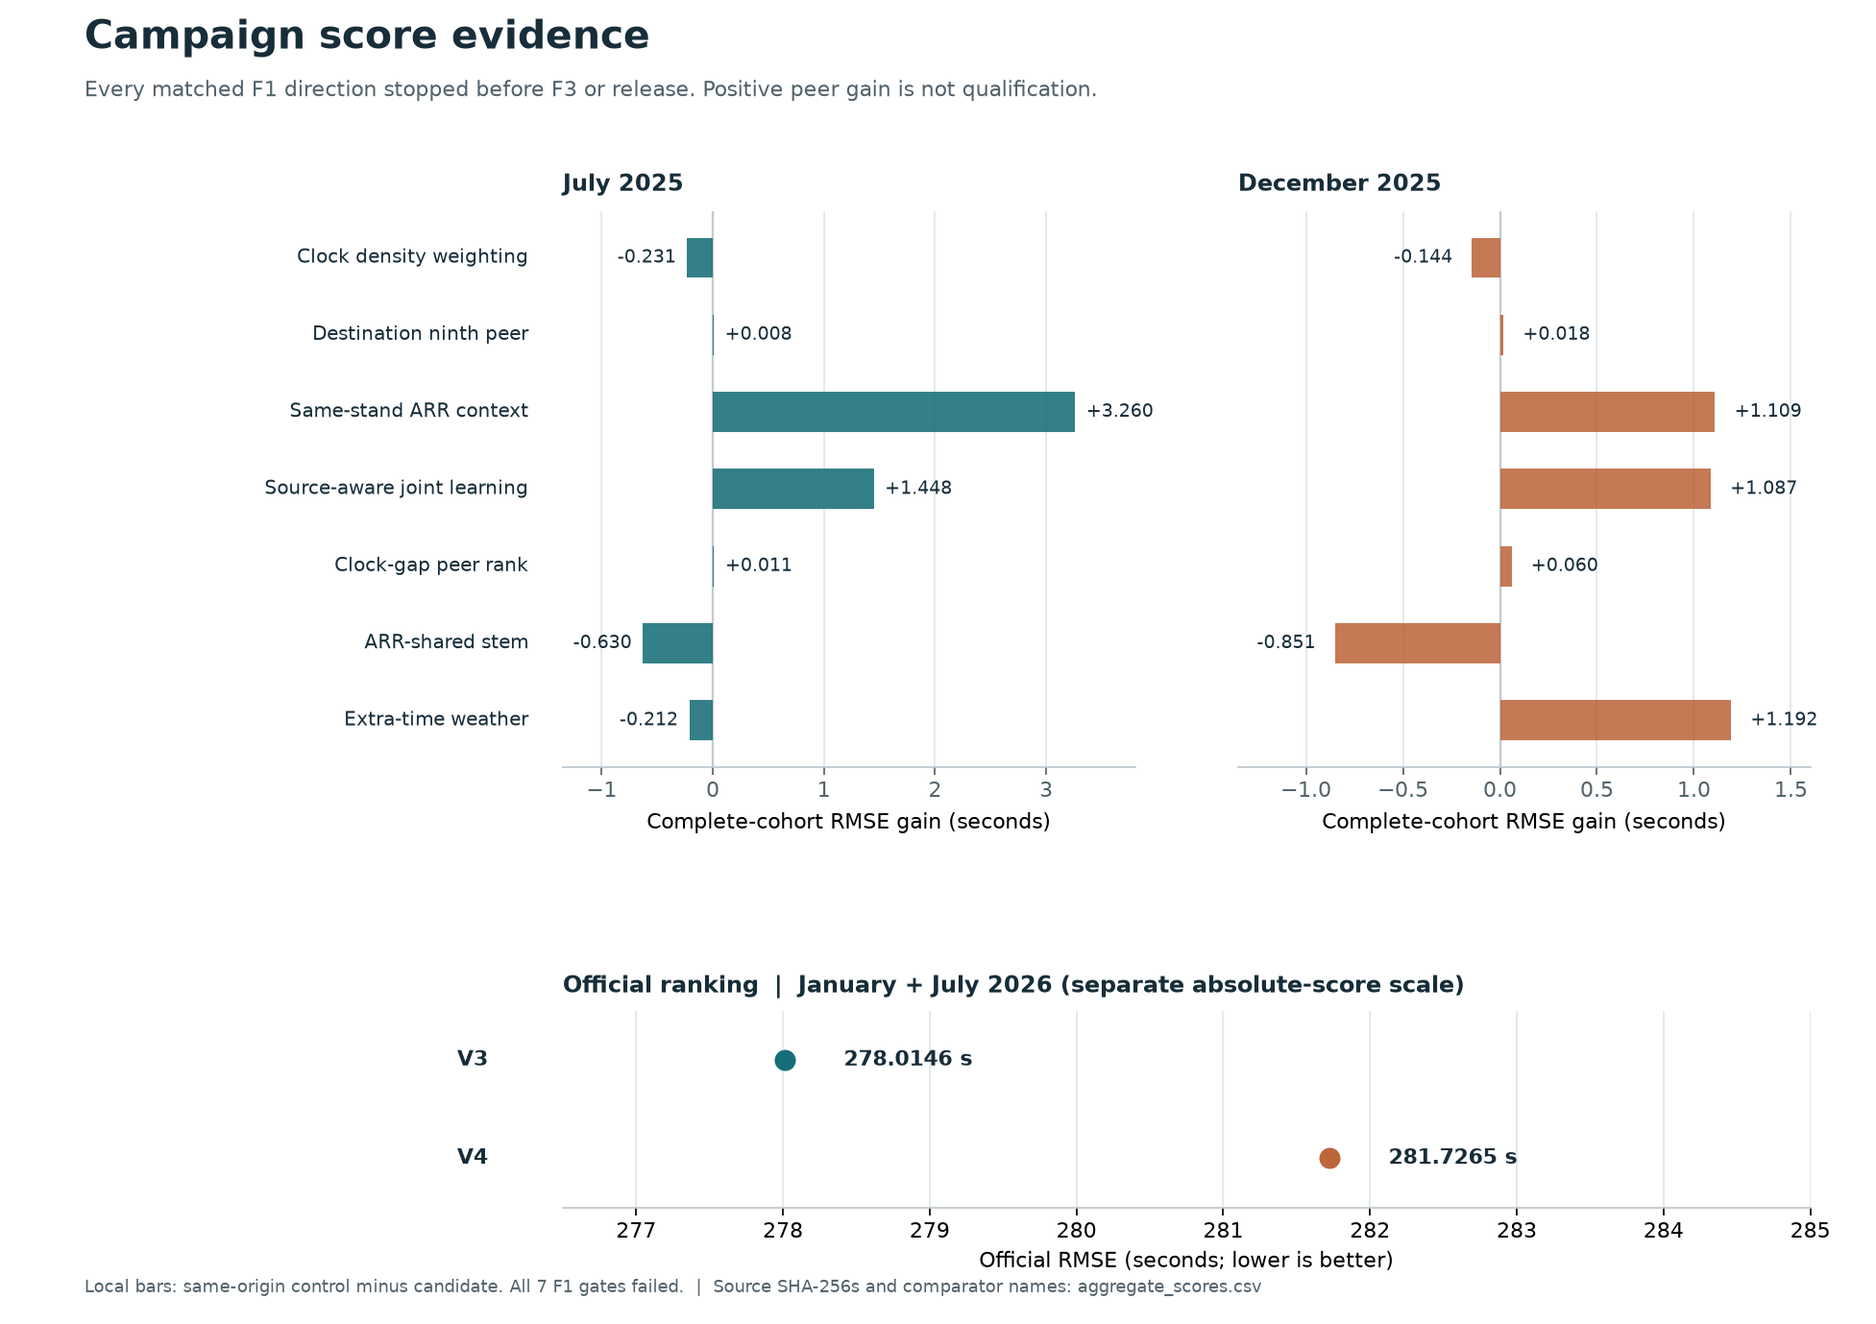
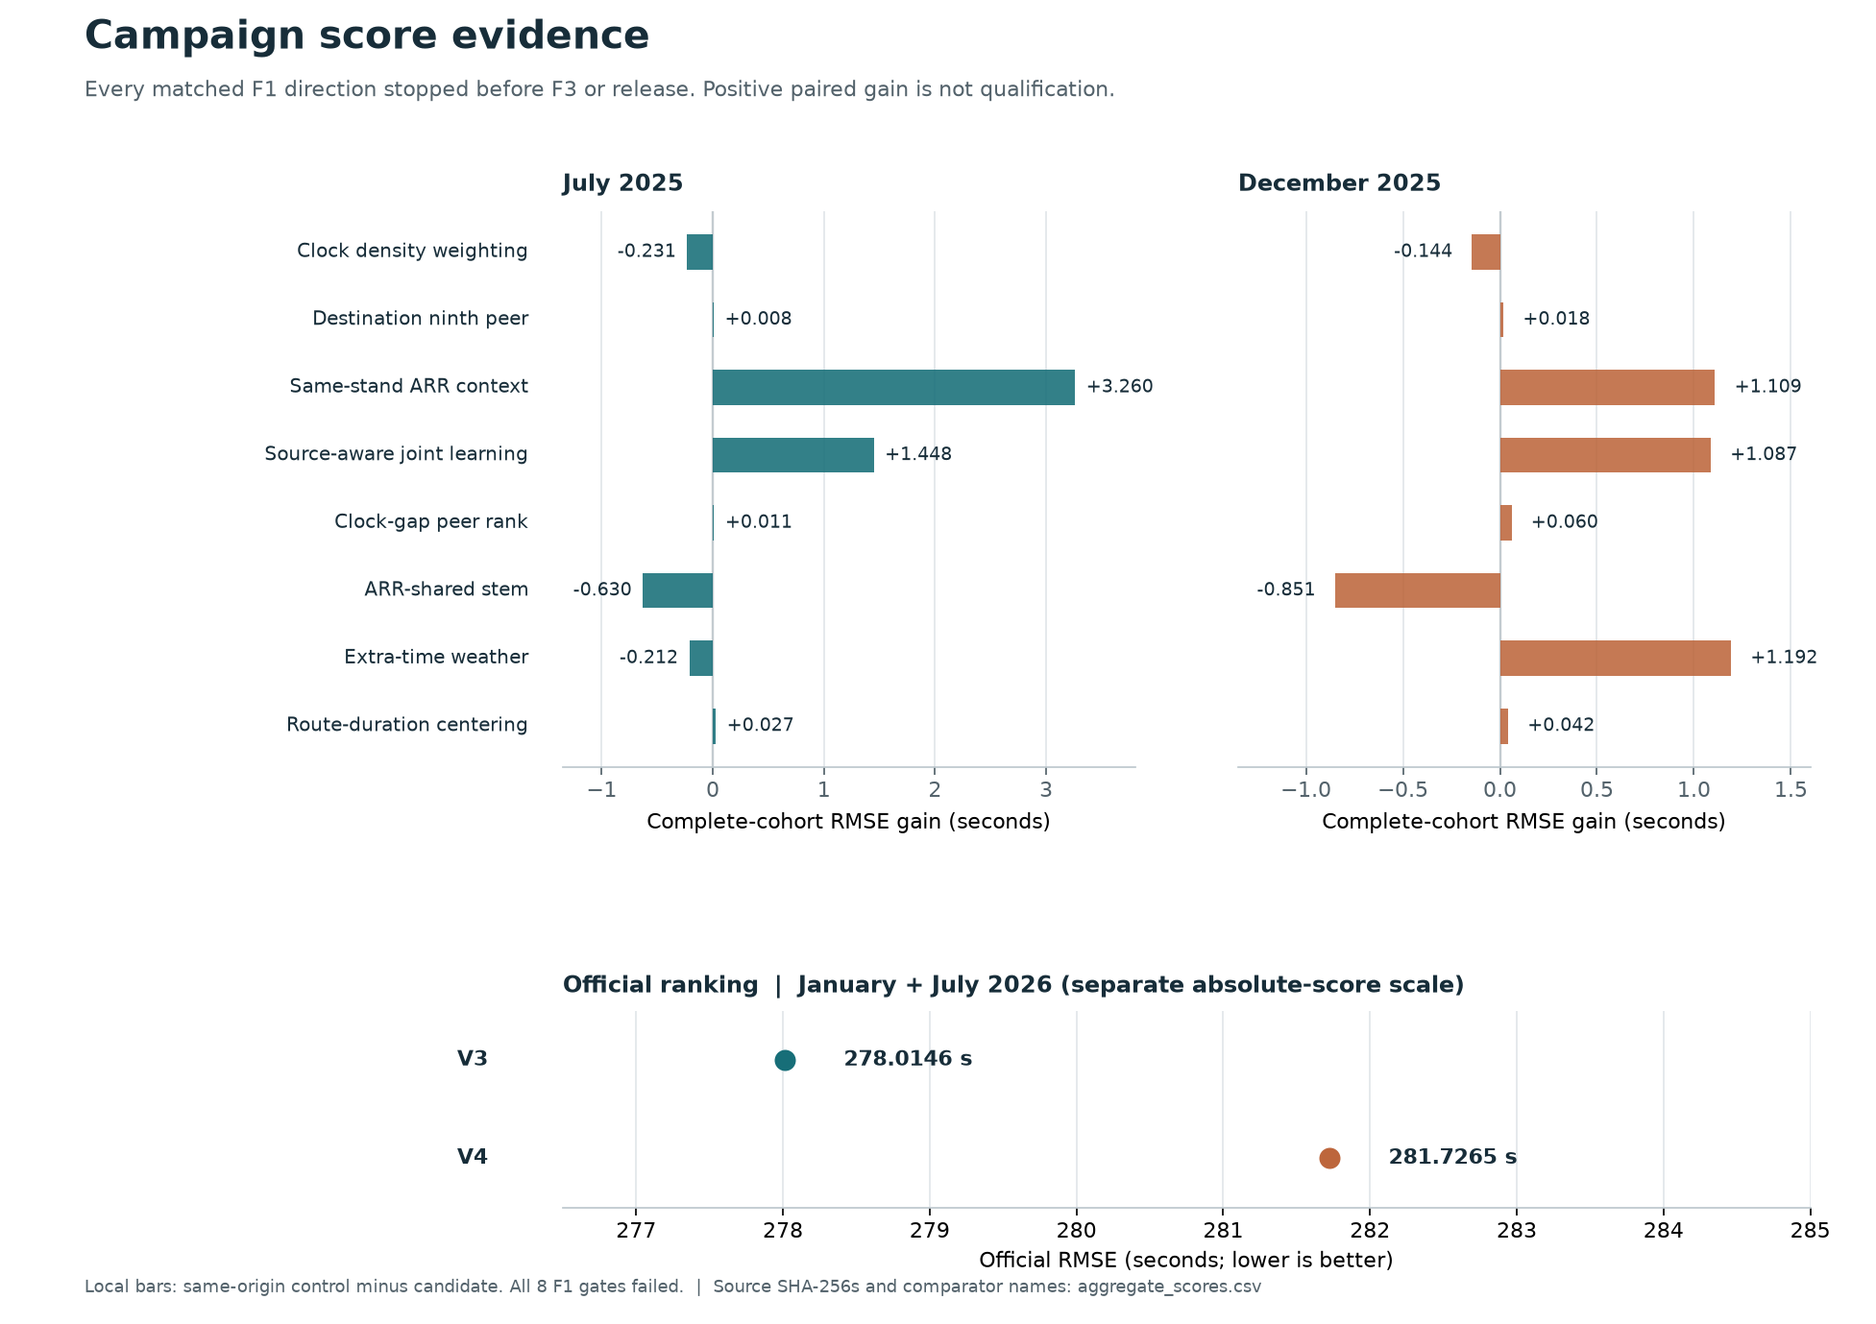
docs: record route-duration F1 stop and campaign evidence

diff --git a/docs/campaign-evidence/build_chart.py b/docs/campaign-evidence/build_chart.py
@@ -76,6 +76,14 @@ SOURCES = [
[1 lines of base64/hex data omitted]
         "weather",
     ),
+    (
+        "Route-duration centering", "byte-identical raw/clean",
+        "private_runs/lead235_20260925/route_duration_f1_score_v2/F1/result.json",
[1 lines of base64/hex data omitted]
+        "review_work/lead235_20260925/route_duration_f1_postscore_audit_v1/POSTSCORE_AUDIT.json",
[1 lines of base64/hex data omitted]
+        "route_duration",
+    ),
 ]
 
 OFFICIAL = [
@@ -125,6 +133,8 @@ def complete_comparison(data: dict, kind: str, month: str) -> tuple[float, float
         part = data["months"][month]["comparisons"]["detached"]
     elif kind == "weather":
         part = data["months"][month]["comparisons"]["routine"]
+    elif kind == "route_duration":
+        part = data["months"][month]["comparisons"]["raw"]
     else:
         raise ValueError(f"Unknown source kind: {kind}")
     return part["comparator_rmse"], part["candidate_rmse"], part["gain_sec"], part["rows"]
@@ -141,9 +151,17 @@ def aggregate_rows() -> list[dict]:
             review = json.loads(audited)
             audit_result_hash = review.get("score_sha256", review.get("f1_result_sha256", review.get("score_result_sha256", review.get("result_sha256"))))
             assert audit_result_hash == src_hash, (kind, "independent audit did not bind score")
-            gate = data["f1_gate"] if kind in ("source_aware", "rank", "arr_aux", "weather") else data["gate"]
+            gate = data["f1_gate"] if kind in ("source_aware", "rank", "arr_aux", "weather", "route_duration") else data["gate"]
             assert gate["passed"] is False, (kind, "gate changed")
             assert review.get("f1_gate_passed", review.get("gate_passed", False)) is False
+            if kind == "route_duration":
+                assert review["reported_gate_reproduced"] and review["maximum_metric_absolute_delta"] == 0
+                assert review["verified_panel_count"] == 9
+                for month, part in data["months"].items():
+                    assert part["arms"]["raw"] == part["arms"]["clean"], (kind, month, "raw/clean scores differ")
+                    assert part["comparisons"]["raw"] == part["comparisons"]["clean"], (kind, month, "raw/clean comparisons differ")
+                    hashes = review["months"][month]["panels_sha256"]
+                    assert hashes["raw"] == hashes["clean"], (kind, month, "raw/clean panels differ")
         for month in ROWS:
             control, candidate, gain, count = complete_comparison(data, kind, month)
             assert count == ROWS[month], (kind, month, count)
@@ -172,7 +190,7 @@ def draw(rows: list[dict]) -> None:
                              width_ratios=[1, 1], left=.30, right=.965, top=.84,
                              bottom=.088, hspace=.65, wspace=.18)
     fig.text(.045, .963, "Campaign score evidence", fontsize=19, weight="bold", color="#172d39")
-    fig.text(.045, .927, "Every matched F1 direction stopped before F3 or release. Positive peer gain is not qualification.",
+    fig.text(.045, .927, "Every matched F1 direction stopped before F3 or release. Positive paired gain is not qualification.",
              fontsize=10.1, color="#53626b")
     names = [source[0] for source in SOURCES]
     panel = [row for row in rows if row["panel"] == "matched_local_F1"]
@@ -216,7 +234,7 @@ def draw(rows: list[dict]) -> None:
     ax.grid(axis="x", color="#dde3e7", linewidth=.7)
     ax.spines["left"].set_visible(False)
     ax.spines["bottom"].set_color("#bdc8ce")
-    fig.text(.045, .024, "Local bars: same-origin control minus candidate. All 7 F1 gates failed."
+    fig.text(.045, .024, f"Local bars: same-origin control minus candidate. All {len(SOURCES)} F1 gates failed."
              "  |  Source SHA-256s and comparator names: aggregate_scores.csv", fontsize=8.3, color="#53626b")
     fig.savefig(OUT / "campaign_scores.png", dpi=155)
     plt.close(fig)

diff --git a/docs/SUBMISSION_CAMPAIGN_2026-09-23.md b/docs/SUBMISSION_CAMPAIGN_2026-09-23.md
@@ -23,7 +23,7 @@ timezone. Zero uploads is the correct result if no candidate clears the gates.
 | Day | Work to attempt, subject to the preceding gate | Release decision |
 | --- | --- | --- |
 | Thu Sep 24 | Close the failed ARR-supervision F1 arm and complete the paired weather input, twelve matched refits, independent prediction review and one-time F1 score. Preserve the v1 native crash and the separate v2 CPU/v3 GPU recovery receipts. | Extra-time weather lost 0.212 seconds to its matched routine control in complete July; stop before F3, ranking fit or upload. |
-| Fri Sep 25 | The route/type filed-duration post-purge input audit, exact-byte local F1 probe reuse decision, generated-target four-job canary and independent native/panel/resource replay are complete. The separately versioned v2 supervised runner passed generated-only and independent read-only review under the prospective >=24 GiB local-F1 resource policy; issue a one-use fit admission only after its independent prefit review and a fresh resource/lock check. The scheduled-inbound matched F1 arm remains an alternative: its v4 target-blind postfit canary needs >=26 GiB, followed by independent review and its own fit admission. Keep ranking-month ARR-label training held. | The passed canary and resource decision grant no real label access, supervised fit, evaluation scoring, F3, ranking inference or upload. Those require separate frozen admissions and F1/release gates. Probe-reused filed-duration matrices are local F1 inputs only; official release needs independently qualified production artifacts. Official release depending on future ARR membership remains held for organizer clarification. |
+| Fri Sep 25 | The filed route/type duration arm completed four serial supervised jobs, independent native and panel review, May calibration, full June/July/December composition and one-time matched F1 score with independent arithmetic replay. The scheduled-inbound matched F1 arm is the next distinct local test: its v4 target-blind postfit canary needs >=26 GiB, followed by independent review and its own fit admission. Keep ranking-month ARR-label training held. | Route-duration centered gained only 0.026834 seconds in complete July versus byte-identical raw/clean controls, with a paired-day interval crossing zero; stop before F3, ranking inference or upload. Future-ARR-membership release remains held for organizer clarification. |
 | Sat Sep 26 | Only for an admitted direction, freeze matched capacity and chronological cohorts, fit one heavy job at a time, audit complete predictions before scoring and test July robustness plus December transport. | Stop a failed F1 arm without tuning on exposed rows; F3 and full-season qualification require their own receipts. |
 | Sun Sep 27 | Finish any eligible, qualified F3/full-year dependency, independently verify release, check organizer quota and credentials, and upload only a frozen complete candidate. Publish the final experiment and score report. | Close the goal and disable the schedule after the report; if morning work remains, continue later that day. |
 
@@ -64,9 +64,9 @@ complete matched seasonal gate. Each official submission, if any, is a
 one-use transfer check of a distinct qualifying model. Do not infer hidden
 subgroup errors or select a follow-up weight from its score.
 
-The current [aggregate score chart](campaign-evidence/REPORT.md)
-separates seven audited F1 July/December matched gains from the two official
-2026 scores. All seven local directions stopped at F1. The chart's source
+The [aggregate score chart](campaign-evidence/REPORT.md)
+separates audited F1 July/December matched gains from the two official
+2026 scores. All scored local directions stopped at F1. The chart's source
 receipt hashes and arithmetic are checked by its reproducible script; it
 cannot turn earlier-origin F1 gains into a comparable historical V3 score.
 
@@ -116,6 +116,7 @@ of a frozen candidate, not select weights, rows, rules, or the next variant.
 | ARR auxiliary PLE387 F1, September 24 | July complete candidate 333.850 vs detached 333.221 and clean 334.130; December 233.736 vs detached 232.886 | Not submitted | Stop before F3; July trails matched control, July day interval crosses zero versus clean, and December trails control |
 | NM flight-rule transition input, September 24 | Input-only `Y/Z` shares 0.055-0.095% in Jan/Jul 2025/2026; no Rome day has two qualifying rows | Not submitted | Four-cell support gate failed before fit or score |
 | Unfiltered IEM extra-time weather versus matched routine, September 24 | Twelve matched F1 experts and 539,532 complete June/July/December rows. July RMSE: extra 333.7258, routine 333.5139, clean 334.1296. June extra/routine 318.8461/318.6100; December 233.2101/234.4017. | Not submitted | Independent arithmetic audit reproduced the one-time result. July extra lost 0.2119 seconds to routine and failed all four matched robustness checks. Stop before F3/ranking/upload; historical first-publication and source-license eligibility also remain unresolved. |
+| Filed route/type duration centering F1, September 25 | On complete June/July/December 2025 rows, centered RMSE 318.766899/334.102752/234.701302 versus raw and clean 318.758152/334.129587/234.743663. Raw and clean panel bytes match in all three months. July gain +0.026834 sec, paired-day CI [-0.011951, 0.066614]. | Not submitted | One-time F1 gate failed; independent nine-panel postscore replay has zero arithmetic delta. No F3, ranking fit or upload. |
 
 V4 already used at least one September 23 submission slot. The prior V4 bucket
 preflight counted zero same-UTC-day objects, but the official reset boundary is
@@ -152,9 +153,10 @@ filed M1 duration already in union387 -> target-blind route/type centering
        -> v4 policy static review passed; await >=26 GiB + one-use admission
        -> either v4 build/postbuild audit OR exact-byte probe reuse decision
        -> generated-label full-resident four-job canary + independent audit
-       -> separate supervised fit admission
-       -> serial F1 fit and complete-prediction/May/prescore reviews
-       -> only if F1 passes: F3, full-season and release gates
+       -> separate supervised fit admission -> four serial real F1 jobs
+       -> May calibration + independent review -> six complete prediction panels
+       -> independent prescore -> one-time score + independent postscore replay
+       -> July +0.026834 sec, CI crosses zero: STOP; no F3/ranking/upload
 ```
 
 Independent feature, source, review and score-contract tasks may use subagents
@@ -690,9 +692,10 @@ and 2,486 watchdog samples. The independent full-panel native/proxy replay
 passed with zero maximum prediction delta and wrote
 `../../review_work/lead235_20260925/route_duration_fit_resource_canary_review_v1/POSTFIT_AUDIT.json`
[1 lines of base64/hex data omitted]
-This is a resource and integrity result, not an RMSE or fit admission. The
-supervised runners have no `FIT_ADMISSION.json` or real-label fit. The original
-v1 runner retains its >=28 GiB launch floor.
+This was a resource and integrity result, not an RMSE or fit admission. At
+that checkpoint neither runner had a real-label fit; the later admitted v2
+local-F1 run is recorded below. The original v1 runner retains its >=28 GiB
+launch floor.
 
 An independent [resource decision](../../review_work/lead235_20260925/route_duration_fit_resource_policy_v2/ACCEPTANCE.json)
 has since accepted a **prospective >=24 GiB launch floor for a separate v2
@@ -702,8 +705,31 @@ The acceptance retains the <10 GiB sampled process cap, >=8 GiB host/disk
 reserves, 0.5-second watchdog, exclusive jobs and one-use failure behavior.
 It is not a supervised fit admission or proof that real stop-label allocation
 fits the same peak. The separate v2 runner passed 12 generated tests and two
-independent read-only code/science reviews; it still needs an independent
-prefit admission review, exact-hash one-use ticket and fresh launch check.
+independent read-only code/science reviews. The subsequent one-use supervised
+fit admission, four jobs and independent postfit replay have now completed.
+
+The [route-duration F1 composition](../../review_work/lead235_20260925/route_duration_f1_composition_v2/outputs/F1/manifest.json)
+froze six complete unscored panels on June/July/December 2025 rows; manifest
[1 lines of base64/hex data omitted]
+Independent May calibration reviewed 183,518 ordinary rows, and the target-free
+[prescore review](../../review_work/lead235_20260925/route_duration_f1_prescore_v2/PRESCORE_REVIEW.json)
+replayed all nine candidate/control panels exactly (SHA-256
[1 lines of base64/hex data omitted]
+The one-time [F1 score](../../private_runs/lead235_20260925/route_duration_f1_score_v2/F1/result.json)
[1 lines of base64/hex data omitted]
+found only +0.026834 seconds in July against both raw and clean, which are
+byte-identical in all three months. June was -0.008747 and December +0.042361
+seconds. July's paired-day 95% interval [-0.011951, 0.066614] crosses zero;
+its worst one-day and top-ten-benefit removals retain only +0.016836 and
++0.008601 seconds. The independent [postscore audit](../../review_work/lead235_20260925/route_duration_f1_postscore_audit_v1/POSTSCORE_AUDIT.json)
[1 lines of base64/hex data omitted]
+reproduced all nine panel metrics and the failed gate with zero maximum delta.
+Close this exact direction at F1. Do not retune a weight or route switch from
+exposed rows; do not pursue its v4 production build, F3, ranking fit or upload.
+The next distinct local candidate is scheduled-inbound versus same-peer
+landed-inbound density, subject to its >=26 GiB canary and separate admission.
+Official release of a feature using future ARR peer membership needs a dated
+organizer ruling even if its local test eventually passes.
 
 ## Candidate qualification
 

diff --git a/docs/campaign-evidence/REPORT.md b/docs/campaign-evidence/REPORT.md
@@ -1,13 +1,13 @@
-# Campaign score evidence (frozen September 24 snapshot)
+# Campaign score evidence (through September 25)
 
 ![Matched F1 gains and separate official ranking scores](campaign_scores.png)
 
 The local bars show **control RMSE minus candidate RMSE** on the *same complete 2025 F1 cohort*. Positive values mean the candidate won that specific paired comparison. Each row has its own same-origin comparator; the bar heights are **not** an absolute model-quality ranking. Every plotted local arm failed its predeclared F1 advancement gate and stopped before F3, full-year fit, or upload.
 
-The largest paired gain is same-stand versus airport-wide ARR context (+3.260 seconds in July), but it also had to beat the unchanged base, pass the top-ten-row removal, and survive its June/December checks. It failed the frozen F1 gate; July's gain over base was +0.588 seconds, its paired-day MSE interval crossed zero, and its top-ten-row removal reversed the gain. Source-aware learning improved +1.448 seconds against its equal-capacity rich-only comparator in July but *lost* 4.315 seconds against the unchanged clean base. Extra-time weather gained +1.192 seconds in December while losing 0.212 seconds against routine-only weather in July. None supplies a five-second robust, transported complete-cohort gain.
+The largest paired gain is same-stand versus airport-wide ARR context (+3.260 seconds in July), but it also had to beat the unchanged base, pass the top-ten-row removal, and survive its June/December checks. It failed the frozen F1 gate; July's gain over base was +0.588 seconds, its paired-day MSE interval crossed zero, and its top-ten-row removal reversed the gain. Source-aware learning improved +1.448 seconds against its equal-capacity rich-only comparator in July but *lost* 4.315 seconds against the unchanged clean base. Extra-time weather gained +1.192 seconds in December while losing 0.212 seconds against routine-only weather in July. Route-duration centering gained +0.026834 seconds against its byte-identical raw/clean comparator in July and +0.042361 in December, with a June regression of 0.008747 seconds; July's paired-day 95% interval crosses zero (-0.011951 to +0.066614 seconds). Its independent postscore audit reproduced the failed F1 gate with zero metric delta. None supplies a five-second robust, transported complete-cohort gain.
 
 The lower panel is deliberately on a **different, absolute RMSE scale**: official 2026 V3 = **278.0146** and V4 = **281.7265**, both with `Succeeded` receipts. V3 remains the best of these verified submissions. Neither official point is joined to the local 2025 bars, and historical V3 local 268.662991 is omitted: its July/November fit and evaluation history differs from these earlier-origin F1 arms. A lower local F1 absolute score is not an estimate of official 2026 improvement.
 
-[`aggregate_scores.csv`](aggregate_scores.csv) has fourteen local month rows plus two official receipt rows. Each row includes the exact score receipt and SHA-256; local rows also name their independent audit or postscore report and its SHA-256. The [`build_chart.py`](build_chart.py) script reads **only these aggregate receipts**, verifies pinned hashes and score-to-audit binding, checks original full-cohort row counts and `control - candidate` arithmetic, and regenerates the CSV and PNG. From the PRC workspace root, run `& .\.review-venv\Scripts\python.exe knowledgeable-helicopter-screening\docs\campaign-evidence\build_chart.py`. Rebuilding requires the private local aggregate receipts named in the CSV; the checked chart and CSV travel with this branch.
+[`aggregate_scores.csv`](aggregate_scores.csv) has sixteen local month rows plus two official receipt rows. Each row includes the exact score receipt and SHA-256; local rows also name their independent audit or postscore report and its SHA-256. The [`build_chart.py`](build_chart.py) script reads **only these aggregate receipts**, verifies pinned hashes and score-to-audit binding, checks original full-cohort row counts and `control - candidate` arithmetic, and regenerates the CSV and PNG. The route-duration audit additionally verifies raw/clean equality on all three 2025 F1 months. From the PRC workspace root, run `& .\.review-venv\Scripts\python.exe knowledgeable-helicopter-screening\docs\campaign-evidence\build_chart.py`. Rebuilding requires the private local aggregate receipts named in the CSV; the checked chart and CSV travel with this branch.
 
-This plot excludes the July-only backlog result (no matched December), clean F1/F3 controls (no candidate comparison), and input-only scheduled-inbound, route-duration, and other screened directions (no RMSE). Exposed 2025 cohorts and paired-day intervals do not independently validate transfer to 2026; December 2025 is reused transport evidence, not an independent ranking trial. No row represents an unmeasured gain, ranking-month labels, or an unsubmitted official score.
+This plot excludes the July-only backlog result (no matched December), clean F1/F3 controls (no candidate comparison), and input-only scheduled-inbound and other screened directions (no RMSE). Exposed 2025 cohorts and paired-day intervals do not independently validate transfer to 2026; December 2025 is reused transport evidence, not an independent ranking trial. No row represents an unmeasured gain, ranking-month labels, or an unsubmitted official score.
